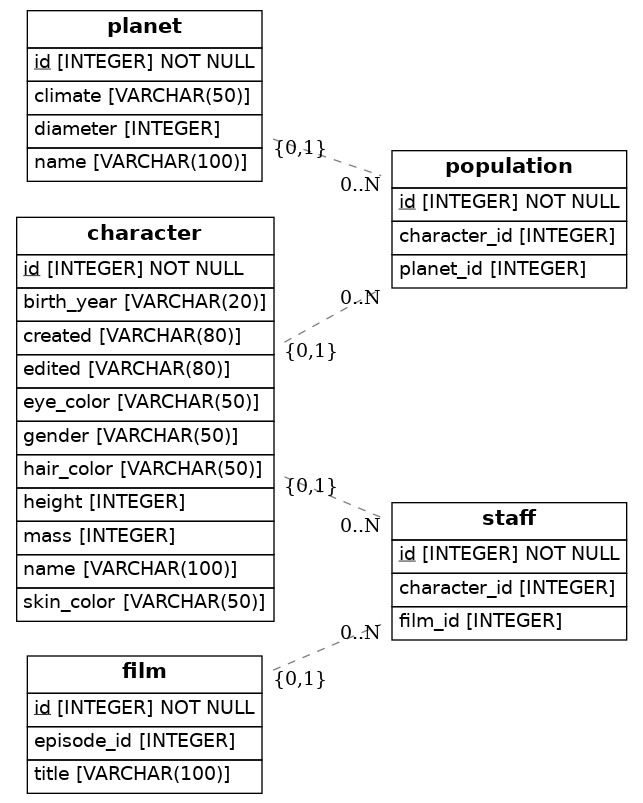
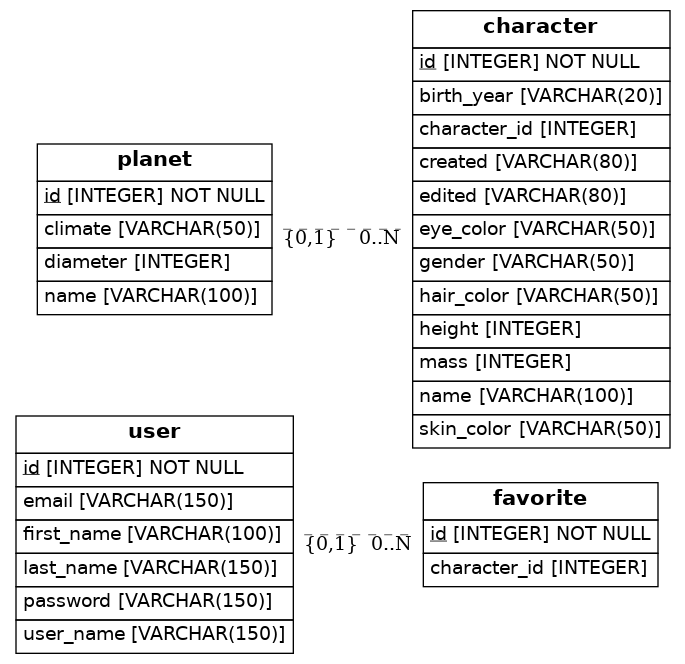
commit

Changed region(s): [[0.0, 0.0, 0.9953, 0.994], [0.9642, 0.512, 0.9953, 0.5422], [0.9642, 0.0602, 0.9953, 0.0904]]

diff --git a/src/models.py b/src/models.py
@@ -24,6 +24,21 @@ class Address(Base):
     post_code = Column(String(250), nullable=False)
     person_id = Column(Integer, ForeignKey('person.id'))
     person = relationship(Person)'''
+
+class User(Base):
+    __tablename__ = 'user'
+    id = Column(Integer, primary_key=True)    
+    first_name   = Column(String(100)) 
+    last_name   = Column(String(150)) 
+    user_name   = Column(String(150)) 
+    password = Column(String(150))
+    email = Column(String(150))
+
+class Favorite(Base):
+    __tablename__ = 'favorite'
+    id = Column(Integer, primary_key=True)
+    character_id = Column(Integer, ForeignKey('user.id'))
+
 class Character(Base):
     __tablename__ = 'character'
     id = Column(Integer, primary_key=True)    
@@ -37,12 +52,7 @@ class Character(Base):
     skin_color = Column(String(50))
     created = Column(String(80))
     edited  = Column(String(80))
-
-class Population(Base):
-    __tablename__ = 'population'
-    id = Column(Integer, primary_key=True)
-    character_id = Column(Integer, ForeignKey('character.id'))
-    planet_id = Column(Integer, ForeignKey('planet.id'))
+    character_id = Column(Integer, ForeignKey('planet.id'))
 
 class Planet(Base):
     __tablename__ = 'planet'
@@ -51,17 +61,6 @@ class Planet(Base):
     diameter = Column(Integer)
     climate = Column(String(50))
 
-class Staff(Base):
-    __tablename__ = 'staff'
-    id = Column(Integer, primary_key=True)
-    character_id = Column(Integer, ForeignKey('character.id'))
-    film_id = Column(Integer, ForeignKey('film.id'))
-
-class Film(Base):
-    __tablename__ = 'film'
-    id = Column(Integer, primary_key=True)    
-    title  = Column(String(100))
-    episode_id = Column(Integer)
 
 
 
